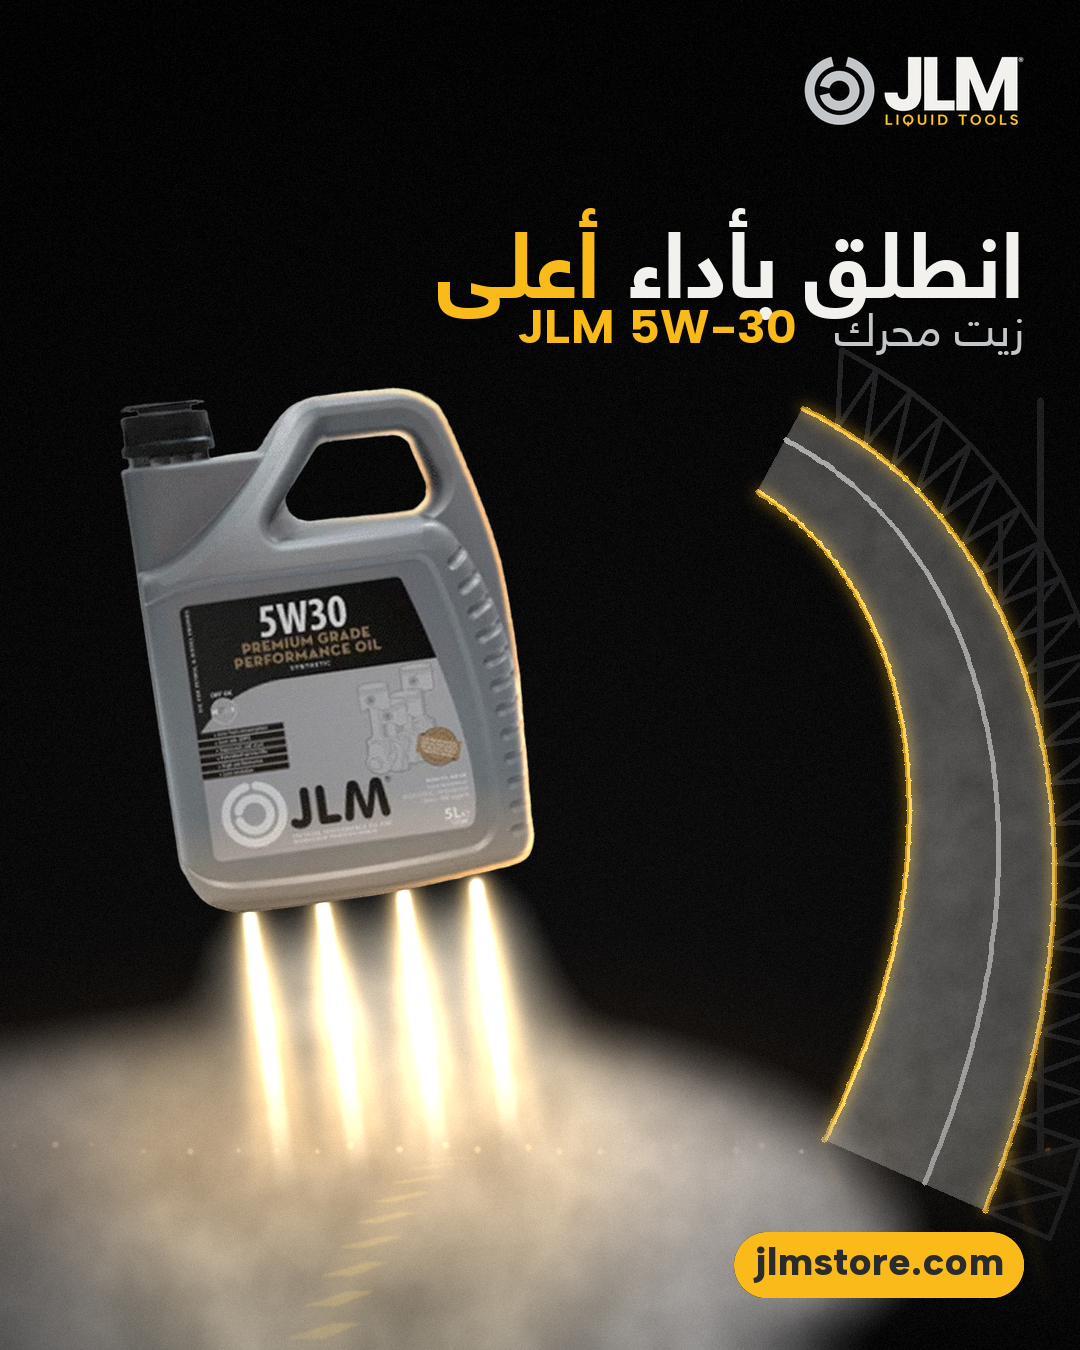
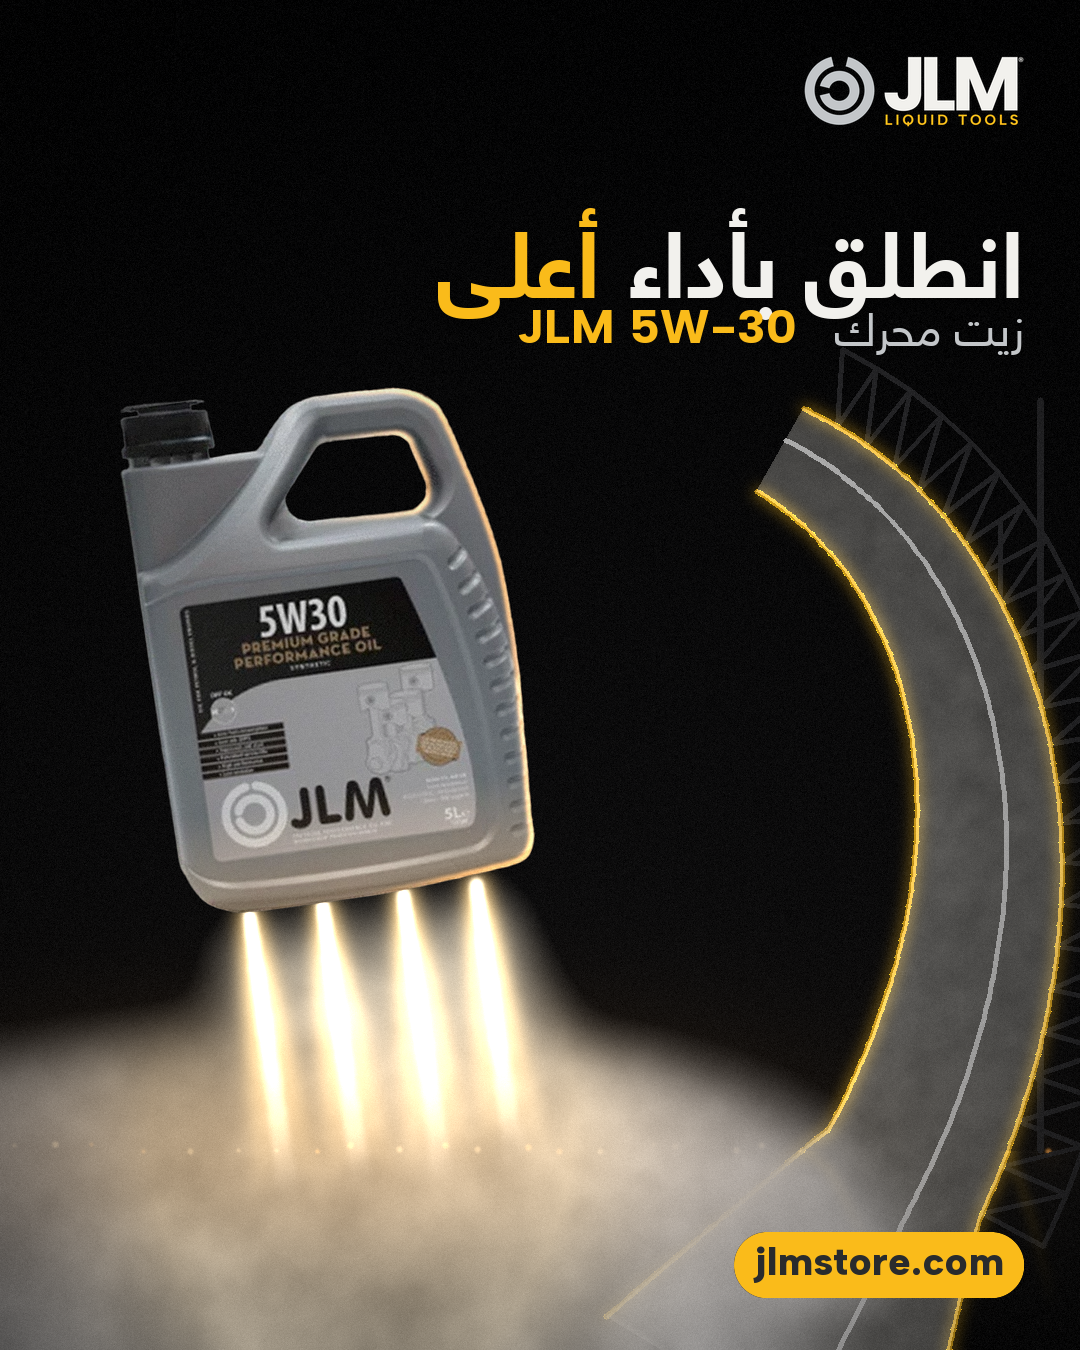
5W-30 launch post: drop the ground dashes, make the ramp one continuous track
The yellow centre-line dashes read as an illogical road; the ramp now starts as a flat
run-out on the ground towards the camera and rises into the curve.

Claude-Session: https://claude.ai/code/session_015ECzJR8MqpLz9gQAHyfRbz

diff --git a/marketing/social/jlm-5w30-launch/scripts/render.py b/marketing/social/jlm-5w30-launch/scripts/render.py
@@ -2,8 +2,8 @@
 
     python3 scripts/render.py        # writes out/jlm_5w30_launch.png
 
-Built from scratch (no stock or third-party photo): a night runway, a curved concrete ramp with JLM-yellow
-LED edges and a steel truss, the client's 5W-30 bottle (assets/oil5w30.png, cut out earlier) tilted for
+Built from scratch (no stock or third-party photo): a night runway, one continuous concrete track (a flat run-out on
+the ground that rises into a curved ramp) with JLM-yellow LED edges and a steel truss, the client's 5W-30 bottle (assets/oil5w30.png, cut out earlier) tilted for
 take-off with a warm rim light, four thrust jets and a billowing smoke plume lit from inside, then the copy
 in the JLM fonts: «انطلق بأداء أعلى» / «زيت محرك JLM 5W-30», the logo and jlmstore.com.
 """
@@ -55,14 +55,6 @@ def background():
         x += RNG.uniform(-12, 12)
         c = WARM if RNG.random() < 0.6 else np.array([1.0, 0.85, 0.6])
         cv2.circle(lights, (int(x), int(HOR + RNG.uniform(-6, 2))), int(RNG.uniform(2, 4)), (c * RNG.uniform(.5, 1)).tolist(), -1, cv2.LINE_AA)
-    for k in range(9):                                       # yellow centre-line marks receding
-        t = k / 9
-        y0 = HOR + 8 + (H - HOR) * t ** 1.6
-        y1 = HOR + 8 + (H - HOR) * ((k + .45) / 9) ** 1.6
-        w = 2 + 12 * t
-        x = 470 - 140 * t
-        cv2.fillConvexPoly(lights, np.array([[x - w, y0], [x + w, y0], [x + w * 1.4 - 40, y1], [x - w * 1.4 - 40, y1]], np.int32),
-                           (YEL * 0.35).tolist(), cv2.LINE_AA)
     f += cv2.GaussianBlur(lights, (0, 0), 1.0) + cv2.GaussianBlur(lights, (0, 0), 12) * 1.5
     return f
 
@@ -74,18 +66,26 @@ def bez(p, t):
 
 def ramp(f):
     """Curved concrete ramp rising from the ground on the right, LED edges in JLM yellow, steel truss behind."""
-    P = [(905, 1175), (1045, 860), (985, 560), (780, 450)]
-    t = np.linspace(0, 1, 140)
-    c = bez(P, t)
-    d = np.gradient(c, axis=0)
+    # one continuous track: a flat run-out on the ground coming towards the camera, a smooth quarter-pipe
+    # foot, then the curve rising and bending back over the scene (as in a real launch ramp)
+    P = [(905, 1172), (1060, 860), (990, 560), (780, 450)]
+    t_up = np.linspace(0, 1, 140)
+    up = bez(P, t_up)
+    s_g = np.linspace(0, 1, 40)[:-1]
+    g0, g1 = np.array([760.0, H + 60.0]), np.array([905.0, 1172.0])
+    ground = g0 + (g1 - g0) * (s_g ** 0.8)[:, None]
+    c = np.concatenate([ground, up])
+    t = np.concatenate([np.zeros(len(ground)), t_up])
+    d = np.gradient(cv2.GaussianBlur(c.reshape(-1, 1, 2), (1, 9), 0).reshape(-1, 2), axis=0)
     n = np.stack([-d[:, 1], d[:, 0]], 1)
     n /= np.linalg.norm(n, axis=1, keepdims=True)
-    w = 175 * (1 - t) + 95 * t
+    w = np.concatenate([360 - 185 * s_g ** 0.8, 175 * (1 - t_up) + 95 * t_up])
     L = c - n * w[:, None] / 2
     Rr = c + n * w[:, None] / 2
     # truss behind (to the right / outside of the curve)
     truss = np.zeros((H, W), np.float32)
-    for k in range(0, len(t) - 6, 6):
+    k0 = len(ground)
+    for k in range(k0, len(t) - 6, 6):
         a, b = Rr[k], Rr[k + 6]
         a2, b2 = a + n[k] * 70, b + n[k + 6] * 70
         for p, q in ((a2, b2), (a, a2), (a, b2)):
@@ -100,7 +100,7 @@ def ramp(f):
     shade = 0.42 + 0.35 * noise(10, 3, 5) * 0.4
     across = np.zeros((H, W), np.float32)
     for k in range(len(t)):            # brighter in the middle of the lane, darker near the top
-        cv2.line(across, tuple(np.int32(L[k])), tuple(np.int32(Rr[k])), 0.75 + 0.25 * (1 - t[k]), 8)
+        cv2.line(across, tuple(np.int32(L[k])), tuple(np.int32(Rr[k])), 0.75 + 0.25 * (1 - t[k]), 10)
     surf = (shade * cv2.GaussianBlur(across, (0, 0), 3))[..., None] * np.array([0.78, 0.77, 0.75])
     f[:] = f * (1 - m[..., None]) + surf * m[..., None]
     # lane line and LED edges

diff --git a/marketing/social/jlm-5w30-launch/README.md b/marketing/social/jlm-5w30-launch/README.md
@@ -2,7 +2,7 @@
 
 The client liked an idea from another brand's ad (an oil bottle taking off like a rocket beside a curved
 ramp). This is our own image built from scratch on that idea — no stock or third-party photo is used:
-a night runway, a curved concrete ramp with JLM-yellow LED edges and a steel truss, the JLM 5W-30 bottle
+a night runway, one continuous concrete track (a flat run-out on the ground rising into a curved ramp) with JLM-yellow LED edges and a steel truss, the JLM 5W-30 bottle
 (client photo, cut out) tilted for take-off with a warm rim light, four thrust jets and a smoke plume lit
 from inside. Copy in the JLM fonts: «انطلق بأداء أعلى» / «زيت محرك JLM 5W-30», the logo, jlmstore.com.
 
